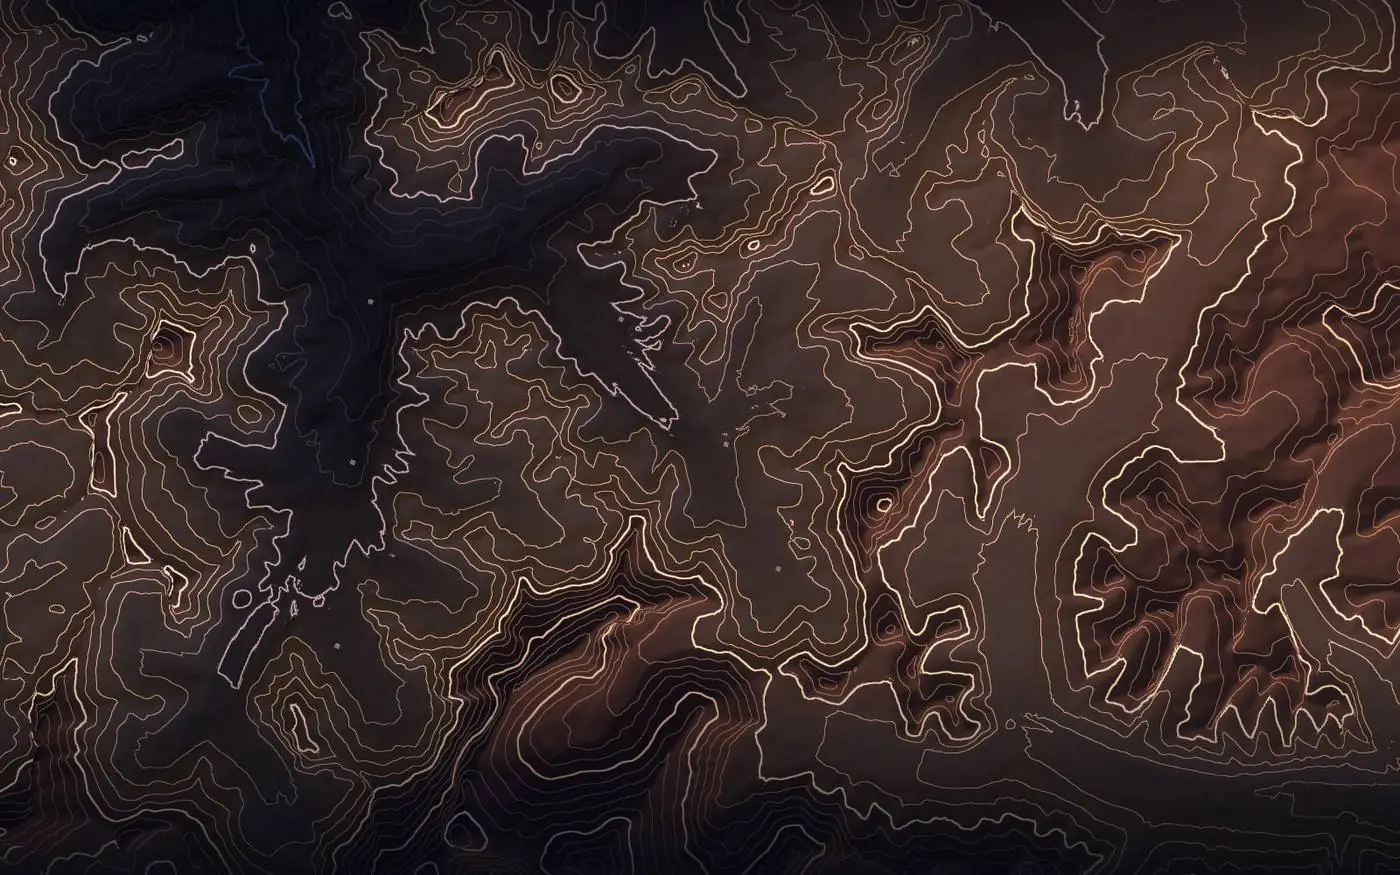
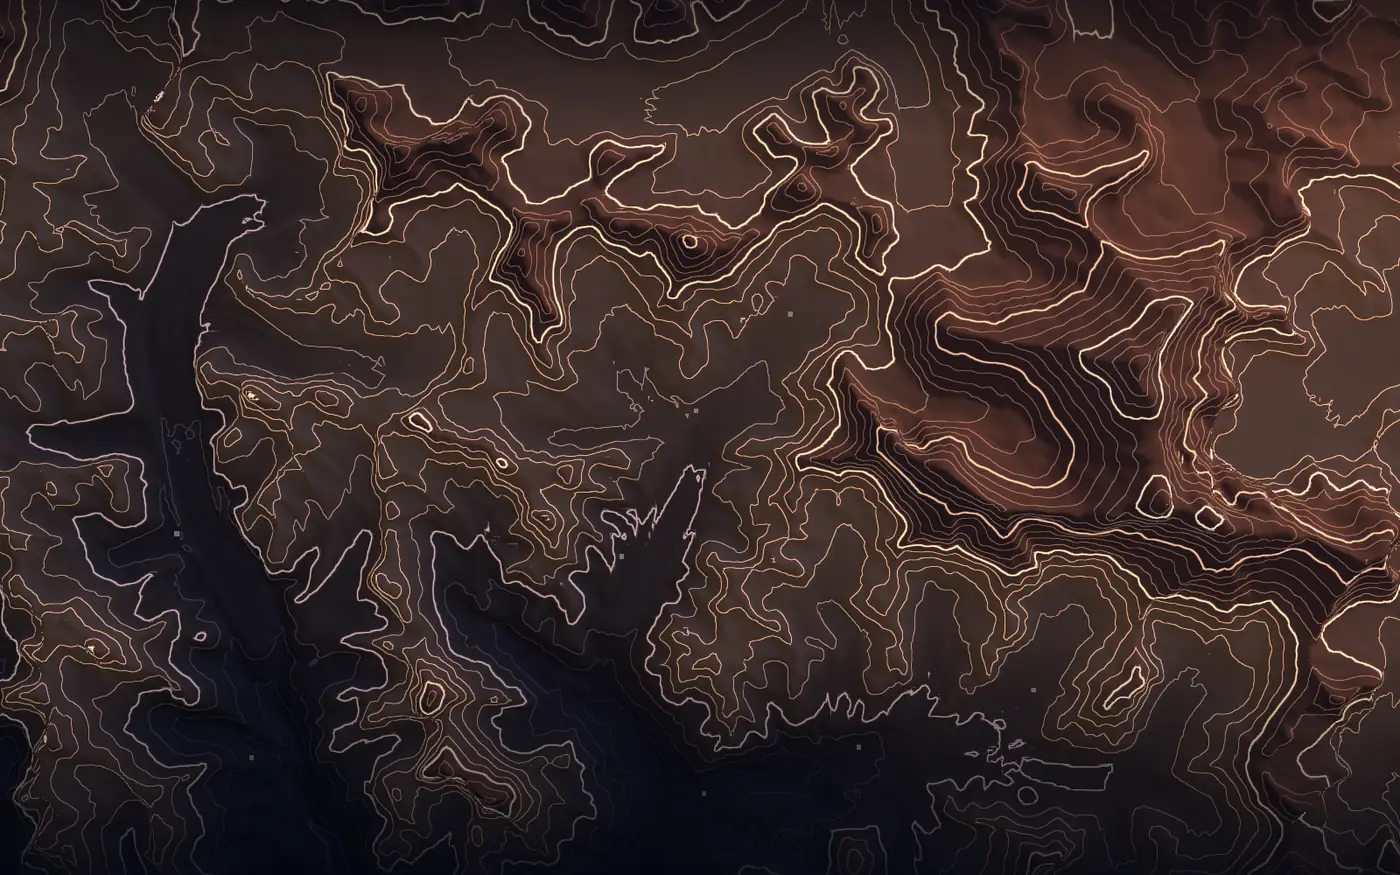
Ouverture nord en haut, comme une carte ; la vue pivote pendant la descente vers le cadrage en relief inchangé
Claude-Session: https://claude.ai/code/session_01MR9Yxqy6gzE7gk1EEN9t1v

diff --git a/index.html b/index.html
@@ -454,7 +454,8 @@
     if(tFixe!=null){ var s0=T<11?0:(T<21?(T-11)*(T-11)/20:5+(T-21)); azAuto=.35+T*.006+s0*.105; }
     else { var g=pause>0?0:1; pause=Math.max(0,pause-dt); azAuto+=dt*vitesseAuto(T)*g; }
     var th=Math.min(1.32,Math.max(0,1.0*k*(1-(por-1)*.17)+vue.incl));
-    var az=azAuto+vue.az;
+    // ouverture nord en haut, comme une carte ; la vue pivote pendant la descente pour rejoindre le cadrage en relief
+    var eo=ss(10,19,T), az=-Math.PI/2+(azAuto+Math.PI/2)*eo+vue.az;
     var dist=((3.15-.45*ss(0,10,T))*(1-k)+3.7*(1+(por-1)*.22)*k)*vue.zoom;
     var ci=[.62*k,.1*k,.55*k];
     var ro=[ci[0]+dist*Math.sin(th)*Math.cos(az), ci[1]+dist*Math.sin(th)*Math.sin(az), ci[2]+dist*Math.cos(th)];
